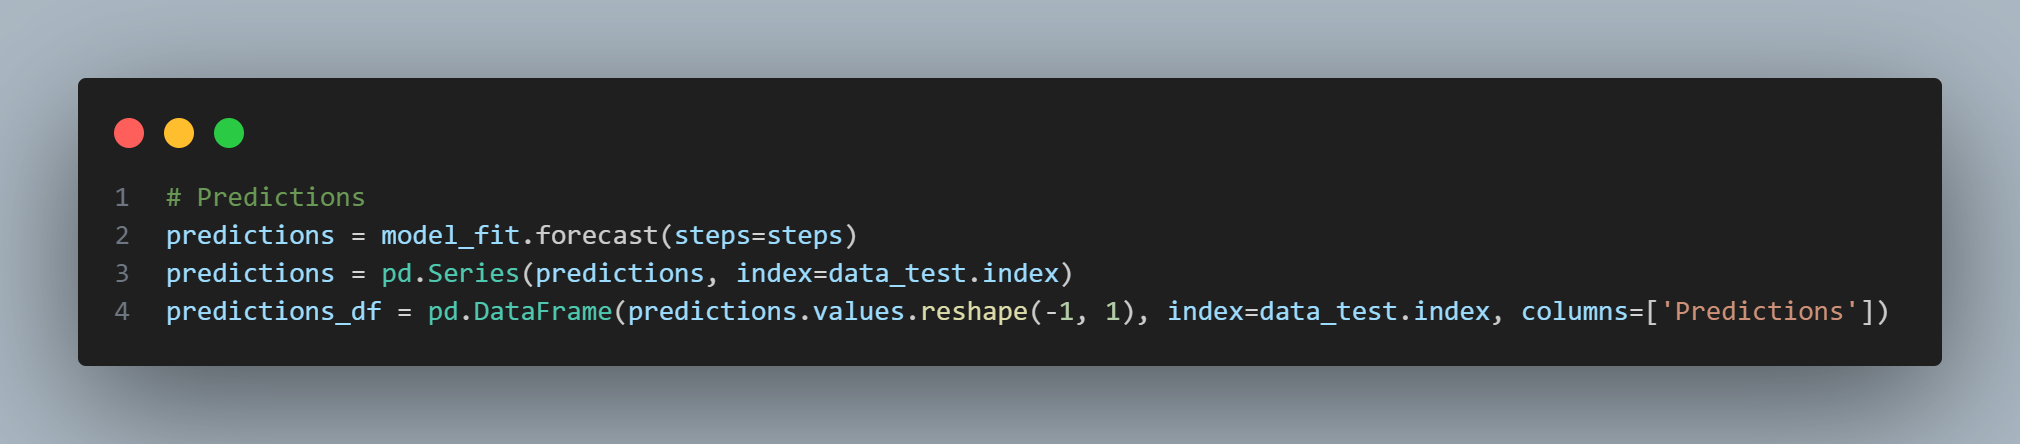
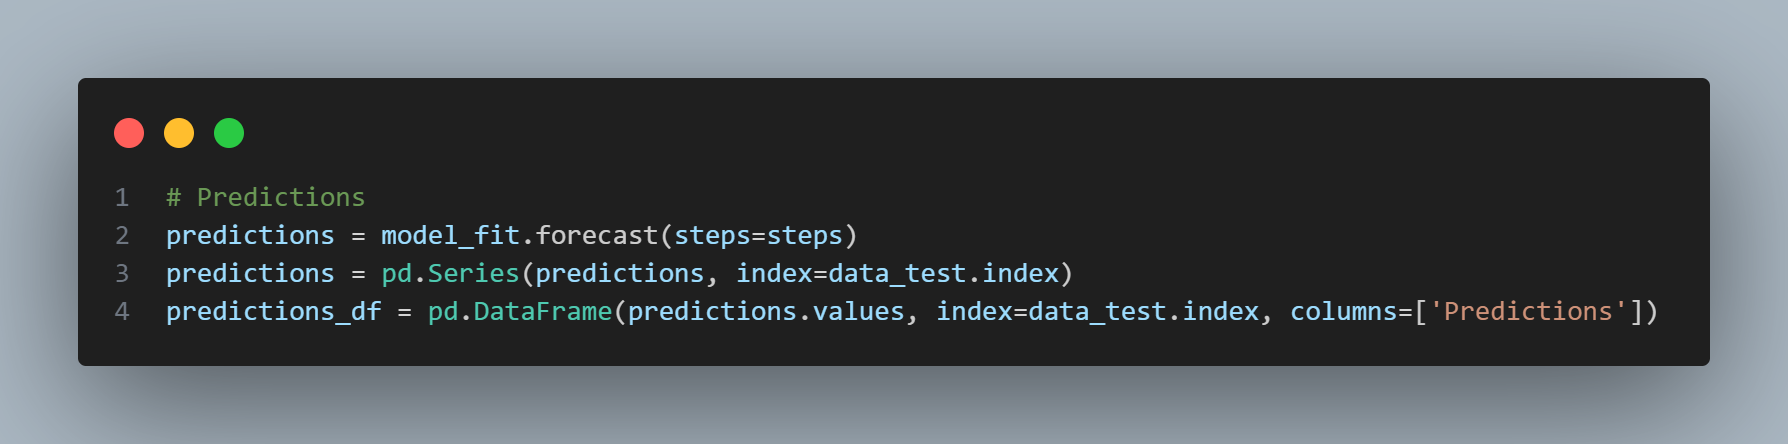
remove normalization and update image files

Changed region(s): [[0.0308, 0.1757, 0.9843, 0.8198]]

diff --git a/time_series/time_series_PROPHET.py b/time_series/time_series_PROPHET.py
@@ -25,13 +25,6 @@ steps = 30
 data_train = data[:-steps].copy()
 data_test = data[-steps:].copy()
 
-# Normalize training series
-scaler = StandardScaler()
-data_train_scaled = scaler.fit_transform(data_train[['Total']])
-data_test_scaled = scaler.transform(data_test[['Total']])
-data_train['Total'] = data_train_scaled
-data_test['Total'] = data_test_scaled
-
 # Plot the data to see how 'Total' behaves over time
 fig, ax = plt.subplots(figsize=(10, 5))
 data_train['Total'].plot(ax=ax, label='train')
@@ -51,11 +44,6 @@ future = model.make_future_dataframe(periods=steps, freq='YE')
 predictions = model.predict(future)
 
 prediction_test = predictions[['ds', 'yhat']].set_index('ds').iloc[-steps:]
-prediction_test['yhat'] = scaler.inverse_transform(prediction_test[['yhat']])
-
-# Revert the normalization of training and test data for viewing
-data_test['Total'] = scaler.inverse_transform(data_test['Total'].values.reshape(-1, 1))
-data_train['y'] = scaler.inverse_transform(data_train['y'].values.reshape(-1, 1))
 
 # Plot predictions and compare with real values
 plt.figure(figsize=(10, 5))

diff --git a/time_series/time_series_ARIMA.py b/time_series/time_series_ARIMA.py
@@ -38,7 +38,7 @@ model_fit = model.fit()
 # Predictions
 predictions = model_fit.forecast(steps=steps)
 predictions = pd.Series(predictions, index=data_test.index)
-predictions_df = pd.DataFrame(predictions.values.reshape(-1, 1), index=data_test.index, columns=['Predictions'])
+predictions_df = pd.DataFrame(predictions.values, index=data_test.index, columns=['Predictions'])
 
 # Plot predictions and compare with real values
 fig, ax = plt.subplots(figsize=(9, 4))
@@ -46,9 +46,6 @@ data_train['Total'].plot(ax=ax, label='train')
 data_test['Total'].plot(ax=ax, label='test')
 predictions_df['Predictions'].plot(ax=ax, label='predictions', color='green')
 ax.legend()
-
-# Disable scientific notation on the y-axis
-ax.ticklabel_format(style='plain', axis='y')
 
 # Display forecast
 plt.show()
